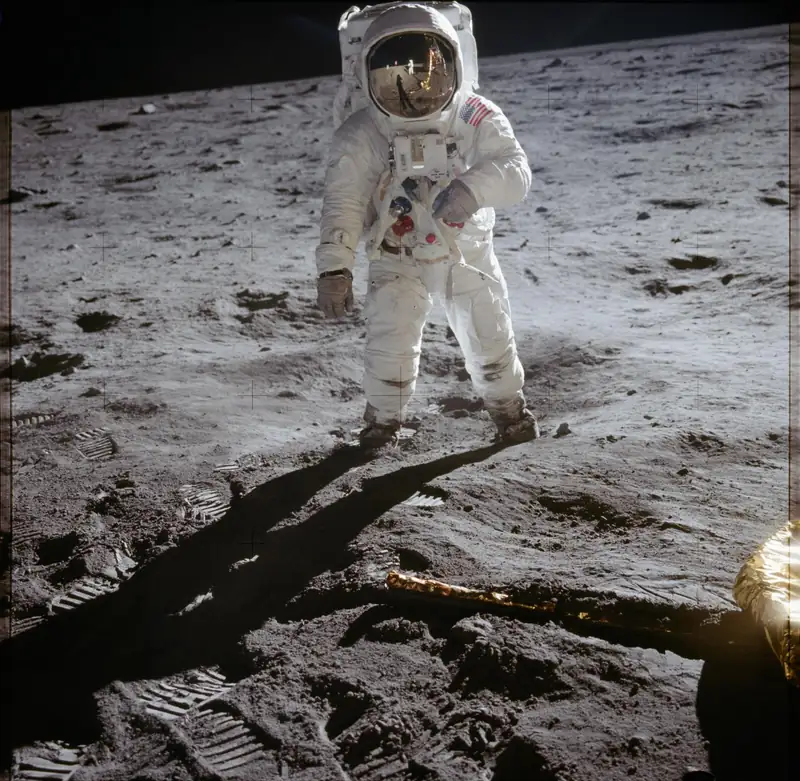
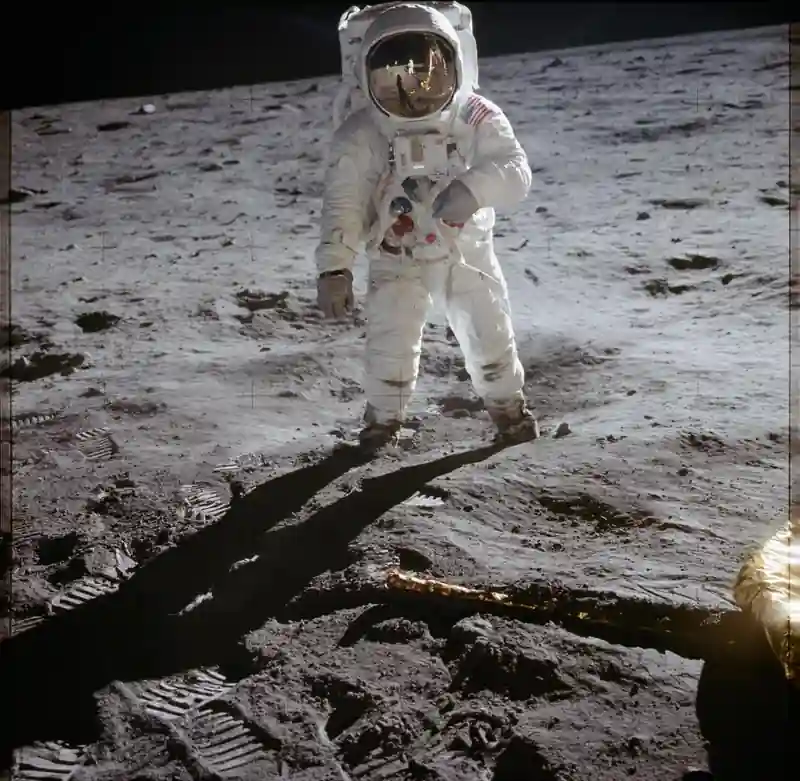
fixed install instrukcijas, optimizēti attēli

diff --git a/README.md b/README.md
@@ -41,12 +41,47 @@ Izmantoti principi no mācību grāmatas *Learn JavaScript and AJAX with w3schoo
 
 ## 6. Projekta palaišana
 
-1. Atspiediet ZIP arhīvu vai klonējiet komandas repozitoriju.
-2. Atveriet mapi `virtuala-izstade/`.
-3. Atveriet failu `index.html` pārlūkprogrammā. Izstādei pietiek ar lokālajiem failiem.
-4. Pārbaudiet saites, galeriju un karuseli gan šaurā, gan platā pārlūka logā.
+Projektam nepieciešama tīmekļa pārlūkprogramma. Izvēlieties vienu no tālāk norādītajiem serveriem un vispirms instalējiet tā darbībai nepieciešamo programmu. Ja projektu klonējat no GitHub, nepieciešams arī Git.
 
-Lai pārbaudītu HTTP kešatmiņu un drošības galvenes, projekta mapē palaidiet `caddy run --config Caddyfile`. Publiskai HTTPS pārbaudei otrā terminālī palaidiet `cloudflared tunnel --url http://127.0.0.1:8000`.
+### Pamata palaišana ar Python
+
+Instalējiet Python 3 no [python.org](https://www.python.org/downloads/) vai Linux pakotņu pārvaldnieka. Atveriet termināli projekta mapē un palaidiet:
+
+**Linux:**
+
+```sh
+python3 -m http.server 8000 --bind 127.0.0.1
+```
+
+**Windows (PowerShell):**
+
+```powershell
+py -3 -m http.server 8000 --bind 127.0.0.1
+```
+
+Atveriet http://127.0.0.1:8000/. Python serveris nenorāda statisko resursu kešatmiņas termiņu ar `Cache-Control`.
+
+### Palaišana ar Node.js un kešatmiņu
+
+Instalējiet [Node.js](https://nodejs.org/en/download). Projekta mapē palaidiet:
+
+```sh
+node server.mjs
+```
+
+Atveriet http://127.0.0.1:8000/. Attēliem, CSS, JavaScript un favicon pārlūka kešatmiņas termiņš ir 30 dienas. HTML pārlūks pārbauda katrā apmeklējumā.
+
+Pirms cita servera palaišanas apturiet pašreizējo ar Ctrl+C, lai atbrīvotu portu 8000.
+
+### Publiska HTTPS pārbaude
+
+Instalējiet `cloudflared` pēc [Cloudflare norādēm](https://developers.cloudflare.com/cloudflare-one/networks/connectors/cloudflare-tunnel/downloads/). Windows var izmantot arī `winget install --exact --id Cloudflare.cloudflared`.
+
+Atstājiet izvēlēto serveri darboties un otrā terminālī palaidiet:
+
+```sh
+cloudflared tunnel --url http://127.0.0.1:8000
+```
 
 ## 7. Komandas ieguldījums
 
